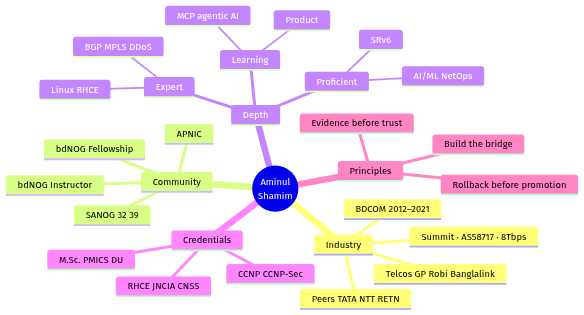
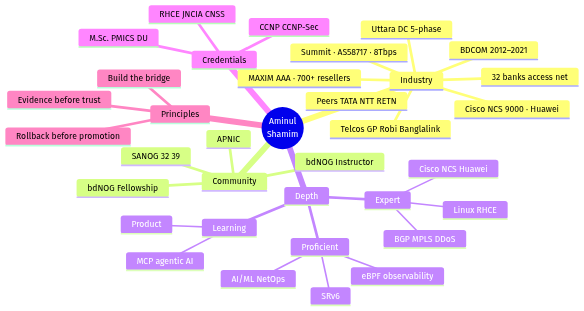
profile: full README + mindmap
- carrier-grade / gateway work
- enterprise / ISP / hosting
- security / automation
- mindmap rendered as PNG

diff --git a/README.md b/README.md
@@ -19,17 +19,29 @@
 
 ## Selected work
 
-- **National IIG platform swap** — led migration from Juniper/Cisco to Huawei (NE-40E, S8851)
+### Carrier-grade / gateway
+- **8+ Tbps national gateway operations** on Cisco NCS 9000 and Huawei platforms (AS58717) — **99.88% uptime** through fiber cuts, submarine cable shifts (SMW4/SMW5/SMW6), and trans-border outages
+- **5-phase Uttara Data Center migration** — zero-downtime hot-swap of core routers, transit links, and submarine cable paths
+- **National IIG platform swap** — Juniper/Cisco → Huawei (NE-40E, S8851)
 - **IPv6 rollout** for Grameenphone, Robi, Banglalink
-- **Submarine cable** systems — planning and new-business technical scope
-- **Felicity IDC TIER-III** — security architecture (OpenStack / F5)
-- **Starlink satellite** integration — national strategic project
-- **Bank data networks** — DBBL, IBBL, Ansar-VDP branch ATM/FT connectivity
+- **Submarine cable** planning · **Felicity IDC TIER-III** (OpenStack / F5) · **Starlink** integration
 - **Upstream peers** — TATA, Bharti, NTT, RETN, Equinix, BBIX
+
+### Enterprise / ISP / hosting
+- **MAXIM AAA Radius billing** — scaled automated broadband infrastructure to **700+ internet resellers**, with DBBL Rocket payment integration
+- **Bank access networks** — L2 access + redundant backup for ATM and EFT across **32 national commercial banks** (2014), using VPN, IPIP, GRE, and IPsec-over-GRE
+- **CDN-backed media hosting** — Prothom Alo, NTV, BanglaTribune
+- **IPTV / VoD streaming** and Asterisk/Issabel IPTSP voice systems
+
+### Security / automation
+- **DDoS mitigation** — BGP FlowSpec, RTBH, FlowShield, Python/Ansible off-ramp orchestration and cloud scrubbing
+- **A525 SmartNet** — hybrid modular platform for automated threat detection, policy enforcement, remediation
+- **Agentic observability** — Gemini API + eBPF research for fiber attenuation prediction, BGP route flap detection, automated RCA
+- **Digital forensics blueprint** — SIEM telemetry, RPKI/ROA validation, chain-of-custody logging
 
 ## Domain
 
-`BGP` `MPLS` `OSPF` `IS-IS` `IPv6` `SRv6` `IIG` `IX` `PNI` `CDN` `DDoS mitigation` `FlowSpec` `RTBH` `L7 firewall` `Palo Alto` `Fortinet` `F5` `Linux RHCE` `Python` `Ansible` `Docker` `AI/ML for NetOps`
+`BGP` `MPLS` `OSPF` `IS-IS` `IPv6` `SRv6` `IIG` `IX` `PNI` `CDN` `DDoS mitigation` `FlowSpec` `RTBH` `L7 firewall` `Palo Alto` `Fortinet` `F5` `Cisco NCS` `Huawei NE-40E` `Linux RHCE` `Python` `Ansible` `eBPF` `AI/ML for NetOps`
 
 ## Certifications
 
